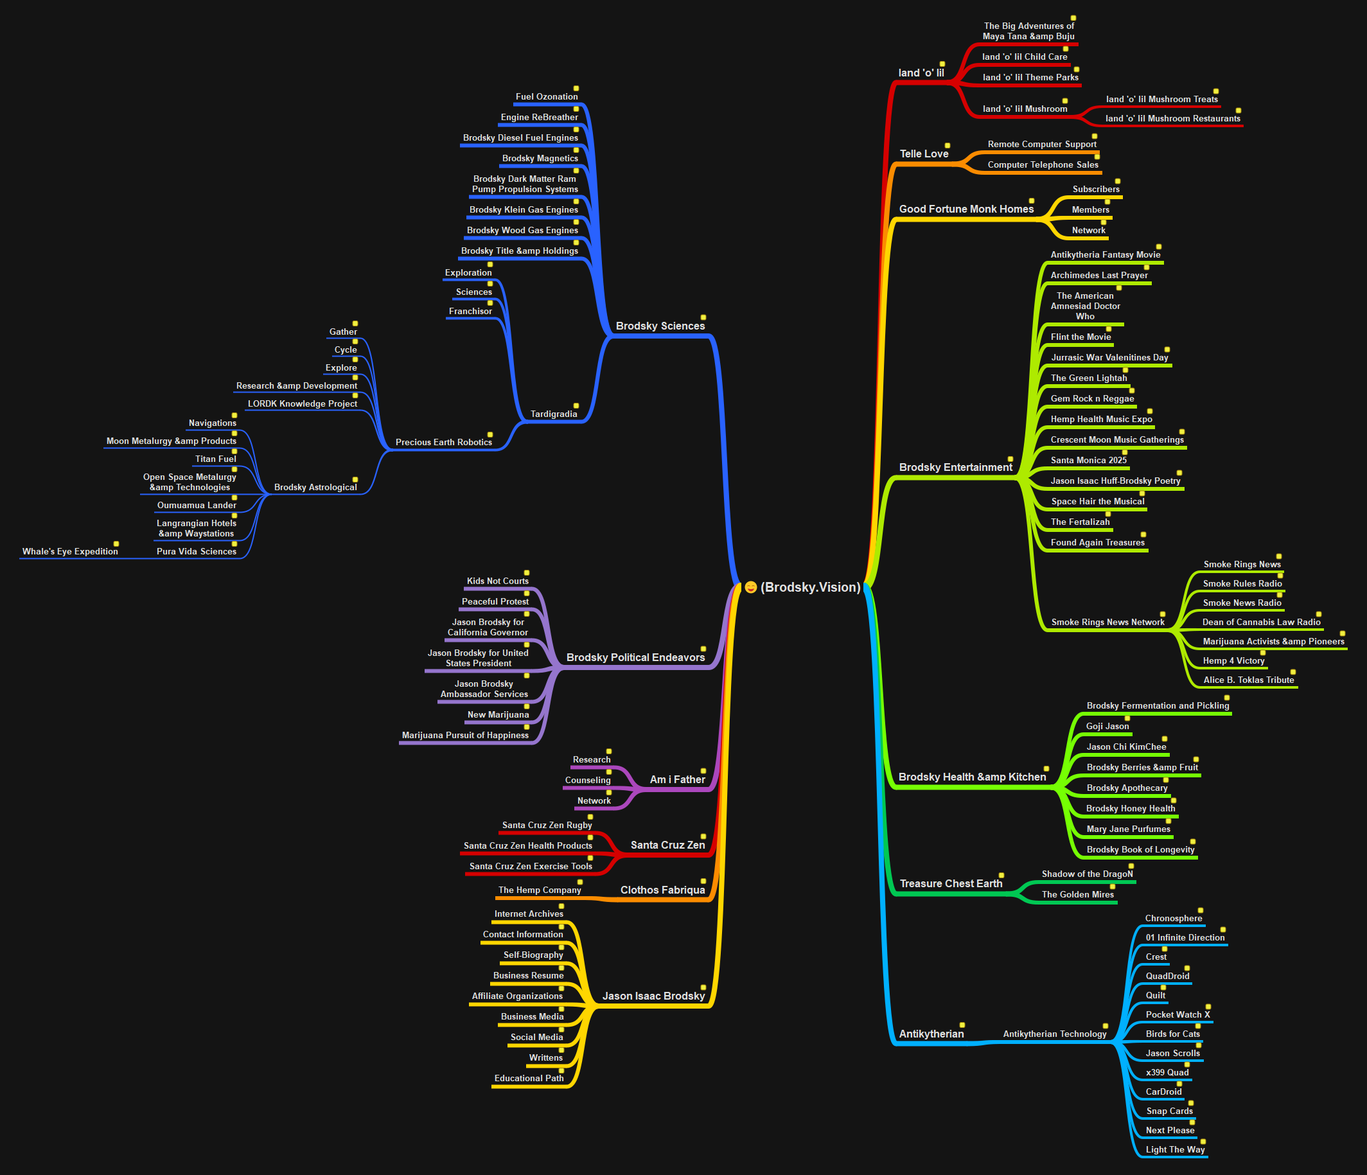
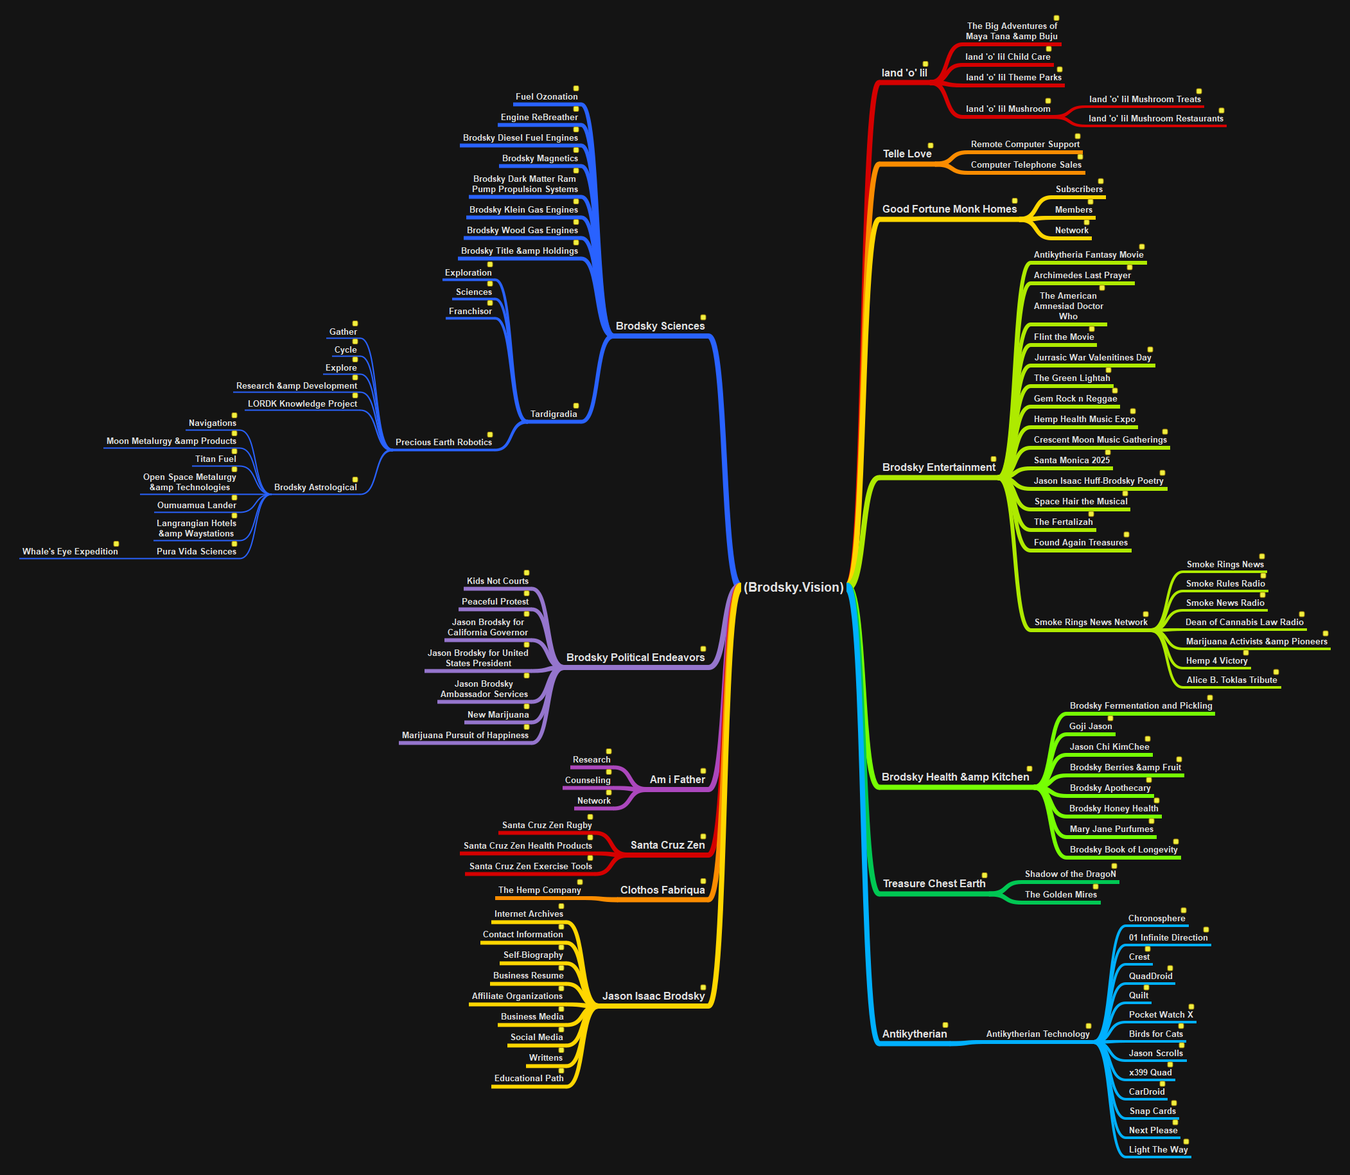
Add files via upload

diff --git a/index.html b/index.html
@@ -1,1 +1,1 @@
-<html><head><title>(Brodsky Vision)</title><link rel="shortcut icon" type="image/png"  href="favicon.png"/></head><body><img src="brodsky_vision.png" border="none" usemap="#map"/><map name="map">  <area shape="rect" coords="1459,92,1475,108"  href="http://jsnb76.github.io/010.ll/001/index.html"/><area shape="rect" coords="1663,20,1679,36"  href="http://jsnb76.github.io/010.ll/002/index.html"/><area shape="rect" coords="1651,68,1667,84"  href="http://jsnb76.github.io/010.ll/003/index.html"/><area shape="rect" coords="1668,100,1684,116"  href="http://jsnb76.github.io/010.ll/004/index.html"/><area shape="rect" coords="1650,149,1666,165"  href="http://jsnb76.github.io/011.lm/001/index.html"/><area shape="rect" coords="1885,134,1901,150"  href="http://jsnb76.github.io/011.lm/002/index.html"/><area shape="rect" coords="1920,164,1936,180"  href="http://jsnb76.github.io/011.lm/003/index.html"/><area shape="rect" coords="1467,218,1483,234"  href="http://jsnb76.github.io/016.tl/002/index.html"/><area shape="rect" coords="1696,204,1712,220"  href="http://jsnb76.github.io/016.tl/002/index.html"/><area shape="rect" coords="1700,236,1716,252"  href="http://jsnb76.github.io/016.tl/003/index.html"/><area shape="rect" coords="1598,304,1614,320"  href="http://jsnb76.github.io/009.gf/001/index.html"/><area shape="rect" coords="1732,274,1748,290"  href="http://jsnb76.github.io/009.gf/002/index.html"/><area shape="rect" coords="1716,306,1732,322"  href="http://jsnb76.github.io/009.gf/003/index.html"/><area shape="rect" coords="1710,338,1726,354"  href="http://jsnb76.github.io/009.gf/004/index.html"/><area shape="rect" coords="1565,706,1581,722"  href="http://jsnb76.github.io/004.be/001/index.html"/><area shape="rect" coords="1796,376,1812,392"  href="http://jsnb76.github.io/004.be/002/index.html"/><area shape="rect" coords="1777,408,1793,424"  href="http://jsnb76.github.io/004.be/003/index.html"/><area shape="rect" coords="1734,440,1750,456"  href="http://jsnb76.github.io/004.be/004/index.html"/><area shape="rect" coords="1718,504,1734,520"  href="http://jsnb76.github.io/004.be/005/index.html"/><area shape="rect" coords="1809,536,1825,552"  href="http://jsnb76.github.io/004.be/006/index.html"/><area shape="rect" coords="1744,568,1760,584"  href="http://jsnb76.github.io/004.be/007/index.html"/><area shape="rect" coords="1754,600,1770,616"  href="http://jsnb76.github.io/004.be/008/index.html"/><area shape="rect" coords="1782,632,1798,648"  href="http://jsnb76.github.io/004.be/009/index.html"/><area shape="rect" coords="1832,664,1848,680"  href="http://jsnb76.github.io/004.be/010/index.html"/><area shape="rect" coords="1743,696,1759,712"  href="http://jsnb76.github.io/004.be/011/index.html"/><area shape="rect" coords="1828,728,1844,744"  href="http://jsnb76.github.io/004.be/012/index.html"/><area shape="rect" coords="1770,760,1786,776"  href="http://jsnb76.github.io/004.be/013/index.html"/><area shape="rect" coords="1717,792,1733,808"  href="http://jsnb76.github.io/004.be/014/index.html"/><area shape="rect" coords="1772,824,1788,840"  href="http://jsnb76.github.io/004.be/015/index.html"/><area shape="rect" coords="1802,948,1818,964"  href="http://jsnb76.github.io/004.be/016/index.html"/><area shape="rect" coords="1983,858,1999,874"  href="http://jsnb76.github.io/004.be/017/index.html"/><area shape="rect" coords="1985,888,2001,904"  href="http://jsnb76.github.io/004.be/018/index.html"/><area shape="rect" coords="1984,918,2000,934"  href="http://jsnb76.github.io/004.be/019/index.html"/><area shape="rect" coords="2045,948,2061,964"  href="http://jsnb76.github.io/004.be/020/index.html"/><area shape="rect" coords="2082,978,2098,994"  href="http://jsnb76.github.io/004.be/021/index.html"/><area shape="rect" coords="1958,1008,1974,1024"  href="http://jsnb76.github.io/004.be/022/index.html"/><area shape="rect" coords="2005,1038,2021,1054"  href="http://jsnb76.github.io/004.be/023/index.html"/><area shape="rect" coords="1621,1188,1637,1204"  href="http://jsnb76.github.io/005.bh/001/index.html"/><area shape="rect" coords="1902,1078,1918,1094"  href="http://jsnb76.github.io/005.bh/002/index.html"/><area shape="rect" coords="1747,1110,1763,1126"  href="http://jsnb76.github.io/005.bh/003/index.html"/><area shape="rect" coords="1805,1142,1821,1158"  href="http://jsnb76.github.io/005.bh/003/index.html"/><area shape="rect" coords="1854,1174,1870,1190"  href="http://jsnb76.github.io/005.bh/004/index.html"/><area shape="rect" coords="1807,1206,1823,1222"  href="http://jsnb76.github.io/005.bh/005/index.html"/><area shape="rect" coords="1819,1238,1835,1254"  href="http://jsnb76.github.io/005.bh/006/index.html"/><area shape="rect" coords="1811,1270,1827,1286"  href="http://jsnb76.github.io/005.bh/009/index.html"/><area shape="rect" coords="1849,1302,1865,1318"  href="http://jsnb76.github.io/017.tc/001/index.html"/><area shape="rect" coords="1551,1354,1567,1370"  href="http://jsnb76.github.io/017.tc/002/index.html"/><area shape="rect" coords="1753,1340,1769,1356"  href="http://jsnb76.github.io/017.tc/003/index.html"/><area shape="rect" coords="1724,1372,1740,1388"  href="http://jsnb76.github.io/002.an/001/index.html"/><area shape="rect" coords="1490,1588,1506,1604"  href="http://jsnb76.github.io/002.an/002/index.html"/><area shape="rect" coords="1713,1589,1729,1605"  href="http://jsnb76.github.io/002.an/015/index.html"/><area shape="rect" coords="1861,1409,1877,1425"  href="http://jsnb76.github.io/002.an/003/index.html"/><area shape="rect" coords="1896,1439,1912,1455"  href="http://jsnb76.github.io/002.an/003/index.html"/><area shape="rect" coords="1805,1469,1821,1485"  href="http://jsnb76.github.io/002.an/004/index.html"/><area shape="rect" coords="1840,1499,1856,1515"  href="http://jsnb76.github.io/002.an/005/index.html"/><area shape="rect" coords="1803,1529,1819,1545"  href="http://jsnb76.github.io/002.an/006/index.html"/><area shape="rect" coords="1873,1559,1889,1575"  href="http://jsnb76.github.io/002.an/007/index.html"/><area shape="rect" coords="1857,1589,1873,1605"  href="http://jsnb76.github.io/002.an/008/index.html"/><area shape="rect" coords="1858,1619,1874,1635"  href="http://jsnb76.github.io/002.an/009/index.html"/><area shape="rect" coords="1840,1649,1856,1665"  href="http://jsnb76.github.io/002.an/010/index.html"/><area shape="rect" coords="1828,1679,1844,1695"  href="http://jsnb76.github.io/002.an/011/index.html"/><area shape="rect" coords="1846,1709,1862,1725"  href="http://jsnb76.github.io/002.an/012/index.html"/><area shape="rect" coords="1848,1739,1864,1755"  href="http://jsnb76.github.io/002.an/013/index.html"/><area shape="rect" coords="1865,1769,1881,1785"  href="http://jsnb76.github.io/002.an/014/index.html"/><area shape="rect" coords="1087,486,1103,502"  href="http://jsnb76.github.io/007.br/001/index.html"/><area shape="rect" coords="889,130,905,146"  href="http://jsnb76.github.io/007.br/002/index.html"/><area shape="rect" coords="889,162,905,178"  href="http://jsnb76.github.io/007.br/003/index.html"/><area shape="rect" coords="889,194,905,210"  href="http://jsnb76.github.io/007.br/004/index.html"/><area shape="rect" coords="889,226,905,242"  href="http://jsnb76.github.io/007.br/005/index.html"/><area shape="rect" coords="889,258,905,274"  href="http://jsnb76.github.io/007.br/006/index.html"/><area shape="rect" coords="889,306,905,322"  href="http://jsnb76.github.io/007.br/007/index.html"/><area shape="rect" coords="889,338,905,354"  href="http://jsnb76.github.io/007.br/008/index.html"/><area shape="rect" coords="889,370,905,386"  href="http://jsnb76.github.io/007.br/009/index.html"/><area shape="rect" coords="889,624,905,640"  href="http://jsnb76.github.io/015.tg/001/index.html"/><area shape="rect" coords="755,404,771,420"  href="http://jsnb76.github.io/015.tg/002/index.html"/><area shape="rect" coords="755,434,771,450"  href="http://jsnb76.github.io/015.tg/003/index.html"/><area shape="rect" coords="755,464,771,480"  href="http://jsnb76.github.io/015.tg/004/index.html"/><area shape="rect" coords="755,668,771,684"  href="http://jsnb76.github.io/012.pe/001/index.html"/><area shape="rect" coords="545,496,561,512"  href="http://jsnb76.github.io/012.pe/002/index.html"/><area shape="rect" coords="545,524,561,540"  href="http://jsnb76.github.io/012.pe/003/index.html"/><area shape="rect" coords="545,552,561,568"  href="http://jsnb76.github.io/012.pe/004/index.html"/><area shape="rect" coords="545,580,561,596"  href="http://jsnb76.github.io/012.pe/005/index.html"/><area shape="rect" coords="545,608,561,624"  href="http://jsnb76.github.io/012.pe/006/index.html"/><area shape="rect" coords="545,738,561,754"  href="http://jsnb76.github.io/003.ba/001/index.html"/><area shape="rect" coords="357,638,373,654"  href="http://jsnb76.github.io/003.ba/002/index.html"/><area shape="rect" coords="357,666,373,682"  href="http://jsnb76.github.io/003.ba/003/index.html"/><area shape="rect" coords="357,694,373,710"  href="http://jsnb76.github.io/003.ba/004/index.html"/><area shape="rect" coords="357,722,373,738"  href="http://jsnb76.github.io/003.ba/005/index.html"/><area shape="rect" coords="357,766,373,782"  href="http://jsnb76.github.io/003.ba/006/index.html"/><area shape="rect" coords="357,794,373,810"  href="http://jsnb76.github.io/003.ba/007/index.html"/><area shape="rect" coords="357,838,373,854"  href="http://jsnb76.github.io/013.pv/001/index.html"/><area shape="rect" coords="173,838,189,854"  href="http://jsnb76.github.io/013.pv/002/index.html"/><area shape="rect" coords="1087,1002,1103,1018"  href="http://jsnb76.github.io/006.bp/001/index.html"/><area shape="rect" coords="812,884,828,900"  href="http://jsnb76.github.io/006.bp/002/index.html"/><area shape="rect" coords="812,916,828,932"  href="http://jsnb76.github.io/006.bp/003/index.html"/><area shape="rect" coords="812,948,828,964"  href="http://jsnb76.github.io/006.bp/004/index.html"/><area shape="rect" coords="812,996,828,1012"  href="http://jsnb76.github.io/006.bp/005/index.html"/><area shape="rect" coords="812,1044,828,1060"  href="http://jsnb76.github.io/006.bp/006/index.html"/><area shape="rect" coords="812,1092,828,1108"  href="http://jsnb76.github.io/006.bp/007/index.html"/><area shape="rect" coords="812,1124,828,1140"  href="http://jsnb76.github.io/006.bp/008/index.html"/><area shape="rect" coords="1087,1192,1103,1208"  href="http://jsnb76.github.io/001.ai/001/index.html"/><area shape="rect" coords="940,1162,956,1178"  href="http://jsnb76.github.io/001.ai/002/index.html"/><area shape="rect" coords="940,1194,956,1210"  href="http://jsnb76.github.io/001.ai/003/index.html"/><area shape="rect" coords="940,1226,956,1242"  href="http://jsnb76.github.io/001.ai/004/index.html"/><area shape="rect" coords="1087,1294,1103,1310"  href="http://jsnb76.github.io/014.sz/001/index.html"/><area shape="rect" coords="911,1264,927,1280"  href="http://jsnb76.github.io/014.sz/002/index.html"/><area shape="rect" coords="911,1296,927,1312"  href="http://jsnb76.github.io/014.sz/003/index.html"/><area shape="rect" coords="911,1328,927,1344"  href="http://jsnb76.github.io/014.sz/004/index.html"/><area shape="rect" coords="1087,1364,1103,1380"  href="http://jsnb76.github.io/008.cf/001/index.html"/><area shape="rect" coords="895,1365,911,1381"  href="http://jsnb76.github.io/008.cf/002/index.html"/><area shape="rect" coords="1087,1529,1103,1545"  href="http://jsnb76.github.io/018.jb/001/index.html"/><area shape="rect" coords="866,1402,882,1418"  href="http://jsnb76.github.io/018.jb/002/index.html"/><area shape="rect" coords="866,1434,882,1450"  href="http://jsnb76.github.io/018.jb/003/index.html"/><area shape="rect" coords="866,1466,882,1482"  href="http://jsnb76.github.io/018.jb/004/index.html"/><area shape="rect" coords="866,1498,882,1514"  href="http://jsnb76.github.io/018.jb/005/index.html"/><area shape="rect" coords="866,1530,882,1546"  href="http://jsnb76.github.io/018.jb/006/index.html"/><area shape="rect" coords="866,1562,882,1578"  href="http://jsnb76.github.io/018.jb/010/index.html"/><area shape="rect" coords="866,1594,882,1610"  href="http://jsnb76.github.io/018.jb/007/index.html"/><area shape="rect" coords="866,1658,882,1674"  href="http://jsnb76.github.io/018.jb/009/index.html"/></map></body></html>
+<html><head><title>(Brodsky Vision)</title><link rel="shortcut icon" type="image/png"  href="favicon.png"/></head><body><img src="brodsky_vision.png" border="none" usemap="#map"/><map name="map">  <area shape="rect" coords="1433,92,1449,108"  href="http://jsnb76.github.io/010.ll/001/index.html"/><area shape="rect" coords="1637,20,1653,36"  href="http://jsnb76.github.io/010.ll/002/index.html"/><area shape="rect" coords="1625,68,1641,84"  href="http://jsnb76.github.io/010.ll/003/index.html"/><area shape="rect" coords="1642,100,1658,116"  href="http://jsnb76.github.io/010.ll/004/index.html"/><area shape="rect" coords="1624,149,1640,165"  href="http://jsnb76.github.io/011.lm/001/index.html"/><area shape="rect" coords="1859,134,1875,150"  href="http://jsnb76.github.io/011.lm/002/index.html"/><area shape="rect" coords="1894,164,1910,180"  href="http://jsnb76.github.io/011.lm/003/index.html"/><area shape="rect" coords="1441,218,1457,234"  href="http://jsnb76.github.io/016.tl/002/index.html"/><area shape="rect" coords="1670,204,1686,220"  href="http://jsnb76.github.io/016.tl/002/index.html"/><area shape="rect" coords="1674,236,1690,252"  href="http://jsnb76.github.io/016.tl/003/index.html"/><area shape="rect" coords="1572,304,1588,320"  href="http://jsnb76.github.io/009.gf/001/index.html"/><area shape="rect" coords="1706,274,1722,290"  href="http://jsnb76.github.io/009.gf/002/index.html"/><area shape="rect" coords="1690,306,1706,322"  href="http://jsnb76.github.io/009.gf/003/index.html"/><area shape="rect" coords="1684,338,1700,354"  href="http://jsnb76.github.io/009.gf/004/index.html"/><area shape="rect" coords="1539,706,1555,722"  href="http://jsnb76.github.io/004.be/001/index.html"/><area shape="rect" coords="1770,376,1786,392"  href="http://jsnb76.github.io/004.be/002/index.html"/><area shape="rect" coords="1751,408,1767,424"  href="http://jsnb76.github.io/004.be/003/index.html"/><area shape="rect" coords="1708,440,1724,456"  href="http://jsnb76.github.io/004.be/004/index.html"/><area shape="rect" coords="1692,504,1708,520"  href="http://jsnb76.github.io/004.be/005/index.html"/><area shape="rect" coords="1783,536,1799,552"  href="http://jsnb76.github.io/004.be/006/index.html"/><area shape="rect" coords="1718,568,1734,584"  href="http://jsnb76.github.io/004.be/007/index.html"/><area shape="rect" coords="1728,600,1744,616"  href="http://jsnb76.github.io/004.be/008/index.html"/><area shape="rect" coords="1756,632,1772,648"  href="http://jsnb76.github.io/004.be/009/index.html"/><area shape="rect" coords="1806,664,1822,680"  href="http://jsnb76.github.io/004.be/010/index.html"/><area shape="rect" coords="1717,696,1733,712"  href="http://jsnb76.github.io/004.be/011/index.html"/><area shape="rect" coords="1802,728,1818,744"  href="http://jsnb76.github.io/004.be/012/index.html"/><area shape="rect" coords="1744,760,1760,776"  href="http://jsnb76.github.io/004.be/013/index.html"/><area shape="rect" coords="1691,792,1707,808"  href="http://jsnb76.github.io/004.be/014/index.html"/><area shape="rect" coords="1746,824,1762,840"  href="http://jsnb76.github.io/004.be/015/index.html"/><area shape="rect" coords="1776,948,1792,964"  href="http://jsnb76.github.io/004.be/016/index.html"/><area shape="rect" coords="1957,858,1973,874"  href="http://jsnb76.github.io/004.be/017/index.html"/><area shape="rect" coords="1959,888,1975,904"  href="http://jsnb76.github.io/004.be/018/index.html"/><area shape="rect" coords="1958,918,1974,934"  href="http://jsnb76.github.io/004.be/019/index.html"/><area shape="rect" coords="2019,948,2035,964"  href="http://jsnb76.github.io/004.be/020/index.html"/><area shape="rect" coords="2056,978,2072,994"  href="http://jsnb76.github.io/004.be/021/index.html"/><area shape="rect" coords="1932,1008,1948,1024"  href="http://jsnb76.github.io/004.be/022/index.html"/><area shape="rect" coords="1979,1038,1995,1054"  href="http://jsnb76.github.io/004.be/023/index.html"/><area shape="rect" coords="1595,1188,1611,1204"  href="http://jsnb76.github.io/005.bh/001/index.html"/><area shape="rect" coords="1876,1078,1892,1094"  href="http://jsnb76.github.io/005.bh/002/index.html"/><area shape="rect" coords="1721,1110,1737,1126"  href="http://jsnb76.github.io/005.bh/003/index.html"/><area shape="rect" coords="1779,1142,1795,1158"  href="http://jsnb76.github.io/005.bh/003/index.html"/><area shape="rect" coords="1828,1174,1844,1190"  href="http://jsnb76.github.io/005.bh/004/index.html"/><area shape="rect" coords="1781,1206,1797,1222"  href="http://jsnb76.github.io/005.bh/005/index.html"/><area shape="rect" coords="1793,1238,1809,1254"  href="http://jsnb76.github.io/005.bh/006/index.html"/><area shape="rect" coords="1785,1270,1801,1286"  href="http://jsnb76.github.io/005.bh/008/index.html"/><area shape="rect" coords="1823,1302,1839,1318"  href="http://jsnb76.github.io/005.bh/009/index.html"/><area shape="rect" coords="1525,1354,1541,1370"  href="http://jsnb76.github.io/017.tc/001/index.html"/><area shape="rect" coords="1727,1340,1743,1356"  href="http://jsnb76.github.io/017.tc/002/index.html"/><area shape="rect" coords="1698,1372,1714,1388"  href="http://jsnb76.github.io/017.tc/003/index.html"/><area shape="rect" coords="1464,1588,1480,1604"  href="http://jsnb76.github.io/002.an/001/index.html"/><area shape="rect" coords="1687,1589,1703,1605"  href="http://jsnb76.github.io/002.an/002/index.html"/><area shape="rect" coords="1835,1409,1851,1425"  href="http://jsnb76.github.io/002.an/015/index.html"/><area shape="rect" coords="1870,1439,1886,1455"  href="http://jsnb76.github.io/002.an/003/index.html"/><area shape="rect" coords="1779,1469,1795,1485"  href="http://jsnb76.github.io/002.an/004/index.html"/><area shape="rect" coords="1814,1499,1830,1515"  href="http://jsnb76.github.io/002.an/005/index.html"/><area shape="rect" coords="1777,1529,1793,1545"  href="http://jsnb76.github.io/002.an/006/index.html"/><area shape="rect" coords="1847,1559,1863,1575"  href="http://jsnb76.github.io/002.an/007/index.html"/><area shape="rect" coords="1831,1589,1847,1605"  href="http://jsnb76.github.io/002.an/008/index.html"/><area shape="rect" coords="1832,1619,1848,1635"  href="http://jsnb76.github.io/002.an/009/index.html"/><area shape="rect" coords="1814,1649,1830,1665"  href="http://jsnb76.github.io/002.an/010/index.html"/><area shape="rect" coords="1802,1679,1818,1695"  href="http://jsnb76.github.io/002.an/011/index.html"/><area shape="rect" coords="1820,1709,1836,1725"  href="http://jsnb76.github.io/002.an/012/index.html"/><area shape="rect" coords="1822,1739,1838,1755"  href="http://jsnb76.github.io/002.an/013/index.html"/><area shape="rect" coords="1839,1769,1855,1785"  href="http://jsnb76.github.io/002.an/014/index.html"/><area shape="rect" coords="1087,486,1103,502"  href="http://jsnb76.github.io/007.br/001/index.html"/><area shape="rect" coords="889,130,905,146"  href="http://jsnb76.github.io/007.br/002/index.html"/><area shape="rect" coords="889,162,905,178"  href="http://jsnb76.github.io/007.br/003/index.html"/><area shape="rect" coords="889,194,905,210"  href="http://jsnb76.github.io/007.br/004/index.html"/><area shape="rect" coords="889,226,905,242"  href="http://jsnb76.github.io/007.br/005/index.html"/><area shape="rect" coords="889,258,905,274"  href="http://jsnb76.github.io/007.br/006/index.html"/><area shape="rect" coords="889,306,905,322"  href="http://jsnb76.github.io/007.br/007/index.html"/><area shape="rect" coords="889,338,905,354"  href="http://jsnb76.github.io/007.br/008/index.html"/><area shape="rect" coords="889,370,905,386"  href="http://jsnb76.github.io/007.br/009/index.html"/><area shape="rect" coords="889,624,905,640"  href="http://jsnb76.github.io/015.tg/001/index.html"/><area shape="rect" coords="755,404,771,420"  href="http://jsnb76.github.io/015.tg/002/index.html"/><area shape="rect" coords="755,434,771,450"  href="http://jsnb76.github.io/015.tg/003/index.html"/><area shape="rect" coords="755,464,771,480"  href="http://jsnb76.github.io/015.tg/004/index.html"/><area shape="rect" coords="755,668,771,684"  href="http://jsnb76.github.io/012.pe/001/index.html"/><area shape="rect" coords="545,496,561,512"  href="http://jsnb76.github.io/012.pe/002/index.html"/><area shape="rect" coords="545,524,561,540"  href="http://jsnb76.github.io/012.pe/003/index.html"/><area shape="rect" coords="545,552,561,568"  href="http://jsnb76.github.io/012.pe/004/index.html"/><area shape="rect" coords="545,580,561,596"  href="http://jsnb76.github.io/012.pe/005/index.html"/><area shape="rect" coords="545,608,561,624"  href="http://jsnb76.github.io/012.pe/006/index.html"/><area shape="rect" coords="545,738,561,754"  href="http://jsnb76.github.io/003.ba/001/index.html"/><area shape="rect" coords="357,638,373,654"  href="http://jsnb76.github.io/003.ba/002/index.html"/><area shape="rect" coords="357,666,373,682"  href="http://jsnb76.github.io/003.ba/003/index.html"/><area shape="rect" coords="357,694,373,710"  href="http://jsnb76.github.io/003.ba/004/index.html"/><area shape="rect" coords="357,722,373,738"  href="http://jsnb76.github.io/003.ba/005/index.html"/><area shape="rect" coords="357,766,373,782"  href="http://jsnb76.github.io/003.ba/006/index.html"/><area shape="rect" coords="357,794,373,810"  href="http://jsnb76.github.io/003.ba/007/index.html"/><area shape="rect" coords="357,838,373,854"  href="http://jsnb76.github.io/013.pv/001/index.html"/><area shape="rect" coords="173,838,189,854"  href="http://jsnb76.github.io/013.pv/002/index.html"/><area shape="rect" coords="1087,1002,1103,1018"  href="http://jsnb76.github.io/006.bp/001/index.html"/><area shape="rect" coords="812,884,828,900"  href="http://jsnb76.github.io/006.bp/002/index.html"/><area shape="rect" coords="812,916,828,932"  href="http://jsnb76.github.io/006.bp/003/index.html"/><area shape="rect" coords="812,948,828,964"  href="http://jsnb76.github.io/006.bp/004/index.html"/><area shape="rect" coords="812,996,828,1012"  href="http://jsnb76.github.io/006.bp/005/index.html"/><area shape="rect" coords="812,1044,828,1060"  href="http://jsnb76.github.io/006.bp/006/index.html"/><area shape="rect" coords="812,1092,828,1108"  href="http://jsnb76.github.io/006.bp/007/index.html"/><area shape="rect" coords="812,1124,828,1140"  href="http://jsnb76.github.io/006.bp/008/index.html"/><area shape="rect" coords="1087,1192,1103,1208"  href="http://jsnb76.github.io/001.ai/001/index.html"/><area shape="rect" coords="940,1162,956,1178"  href="http://jsnb76.github.io/001.ai/002/index.html"/><area shape="rect" coords="940,1194,956,1210"  href="http://jsnb76.github.io/001.ai/003/index.html"/><area shape="rect" coords="940,1226,956,1242"  href="http://jsnb76.github.io/001.ai/004/index.html"/><area shape="rect" coords="1087,1294,1103,1310"  href="http://jsnb76.github.io/014.sz/001/index.html"/><area shape="rect" coords="911,1264,927,1280"  href="http://jsnb76.github.io/014.sz/002/index.html"/><area shape="rect" coords="911,1296,927,1312"  href="http://jsnb76.github.io/014.sz/003/index.html"/><area shape="rect" coords="911,1328,927,1344"  href="http://jsnb76.github.io/014.sz/004/index.html"/><area shape="rect" coords="1087,1364,1103,1380"  href="http://jsnb76.github.io/008.cf/001/index.html"/><area shape="rect" coords="895,1365,911,1381"  href="http://jsnb76.github.io/008.cf/002/index.html"/><area shape="rect" coords="1087,1529,1103,1545"  href="http://jsnb76.github.io/018.jb/001/index.html"/><area shape="rect" coords="866,1402,882,1418"  href="http://jsnb76.github.io/018.jb/002/index.html"/><area shape="rect" coords="866,1434,882,1450"  href="http://jsnb76.github.io/018.jb/003/index.html"/><area shape="rect" coords="866,1466,882,1482"  href="http://jsnb76.github.io/018.jb/004/index.html"/><area shape="rect" coords="866,1498,882,1514"  href="http://jsnb76.github.io/018.jb/005/index.html"/><area shape="rect" coords="866,1530,882,1546"  href="http://jsnb76.github.io/018.jb/006/index.html"/><area shape="rect" coords="866,1562,882,1578"  href="http://jsnb76.github.io/018.jb/010/index.html"/><area shape="rect" coords="866,1594,882,1610"  href="http://jsnb76.github.io/018.jb/007/index.html"/><area shape="rect" coords="866,1658,882,1674"  href="http://jsnb76.github.io/018.jb/009/index.html"/></map></body></html>
